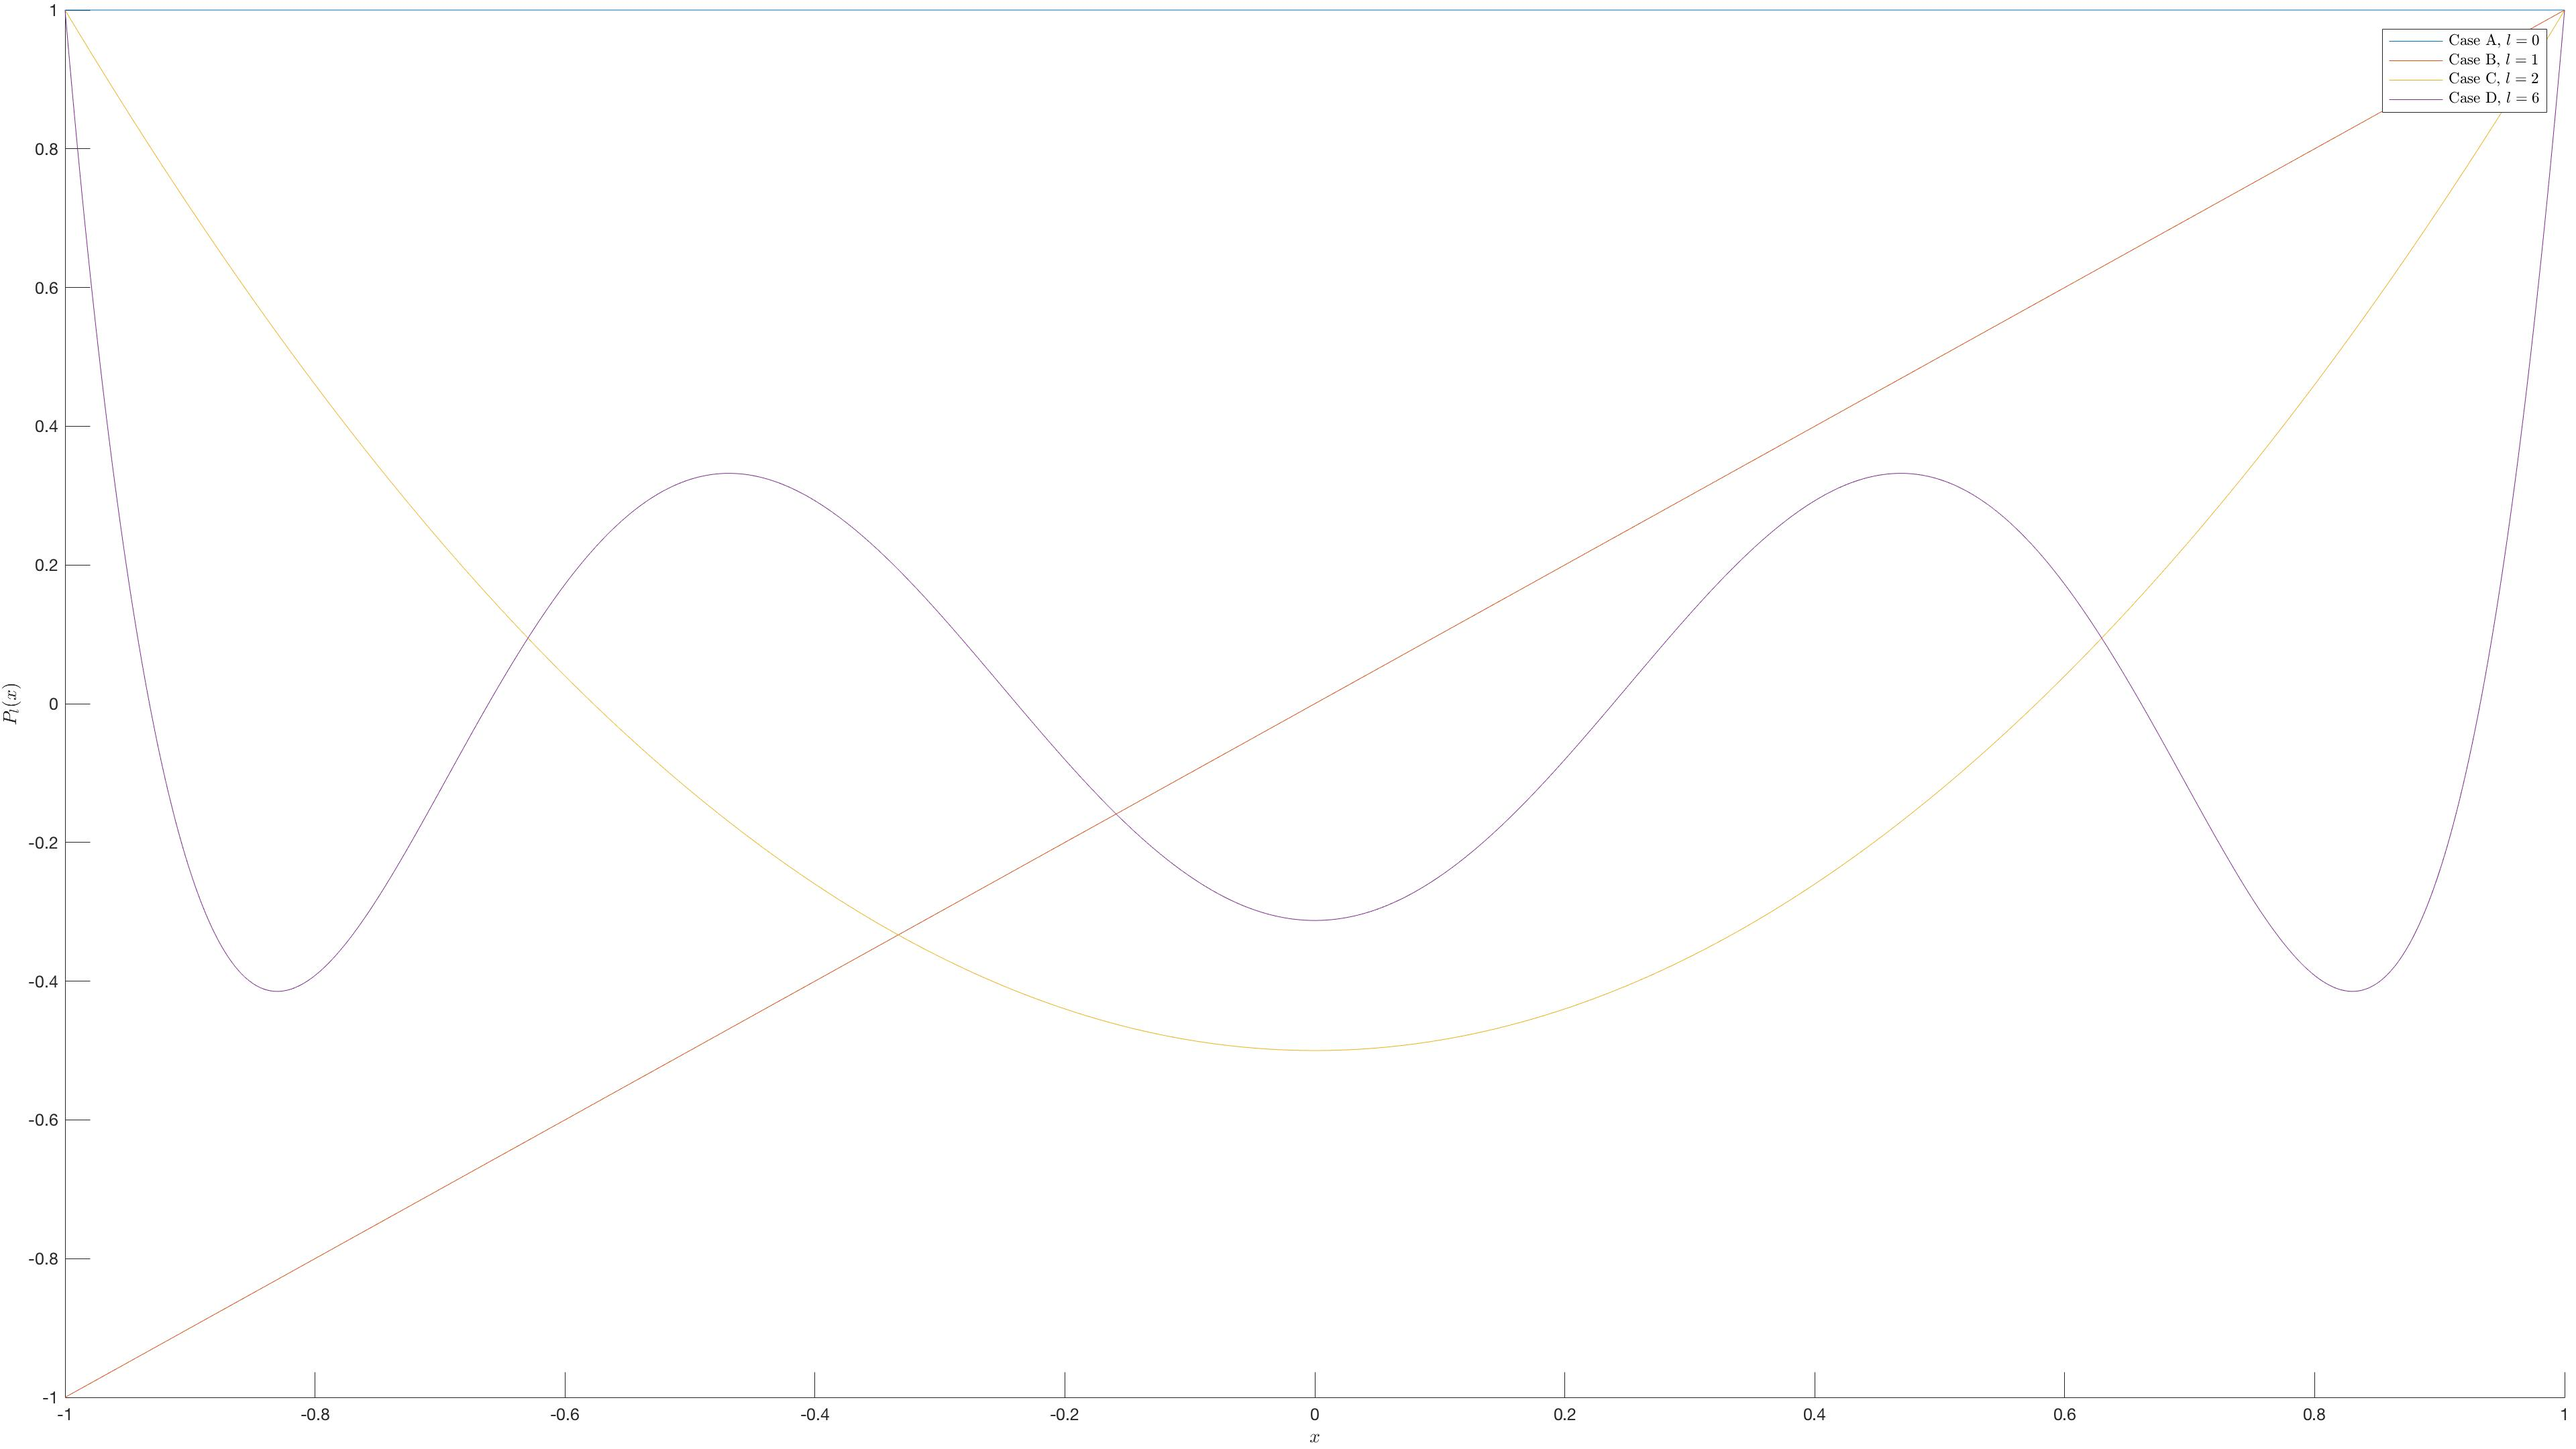
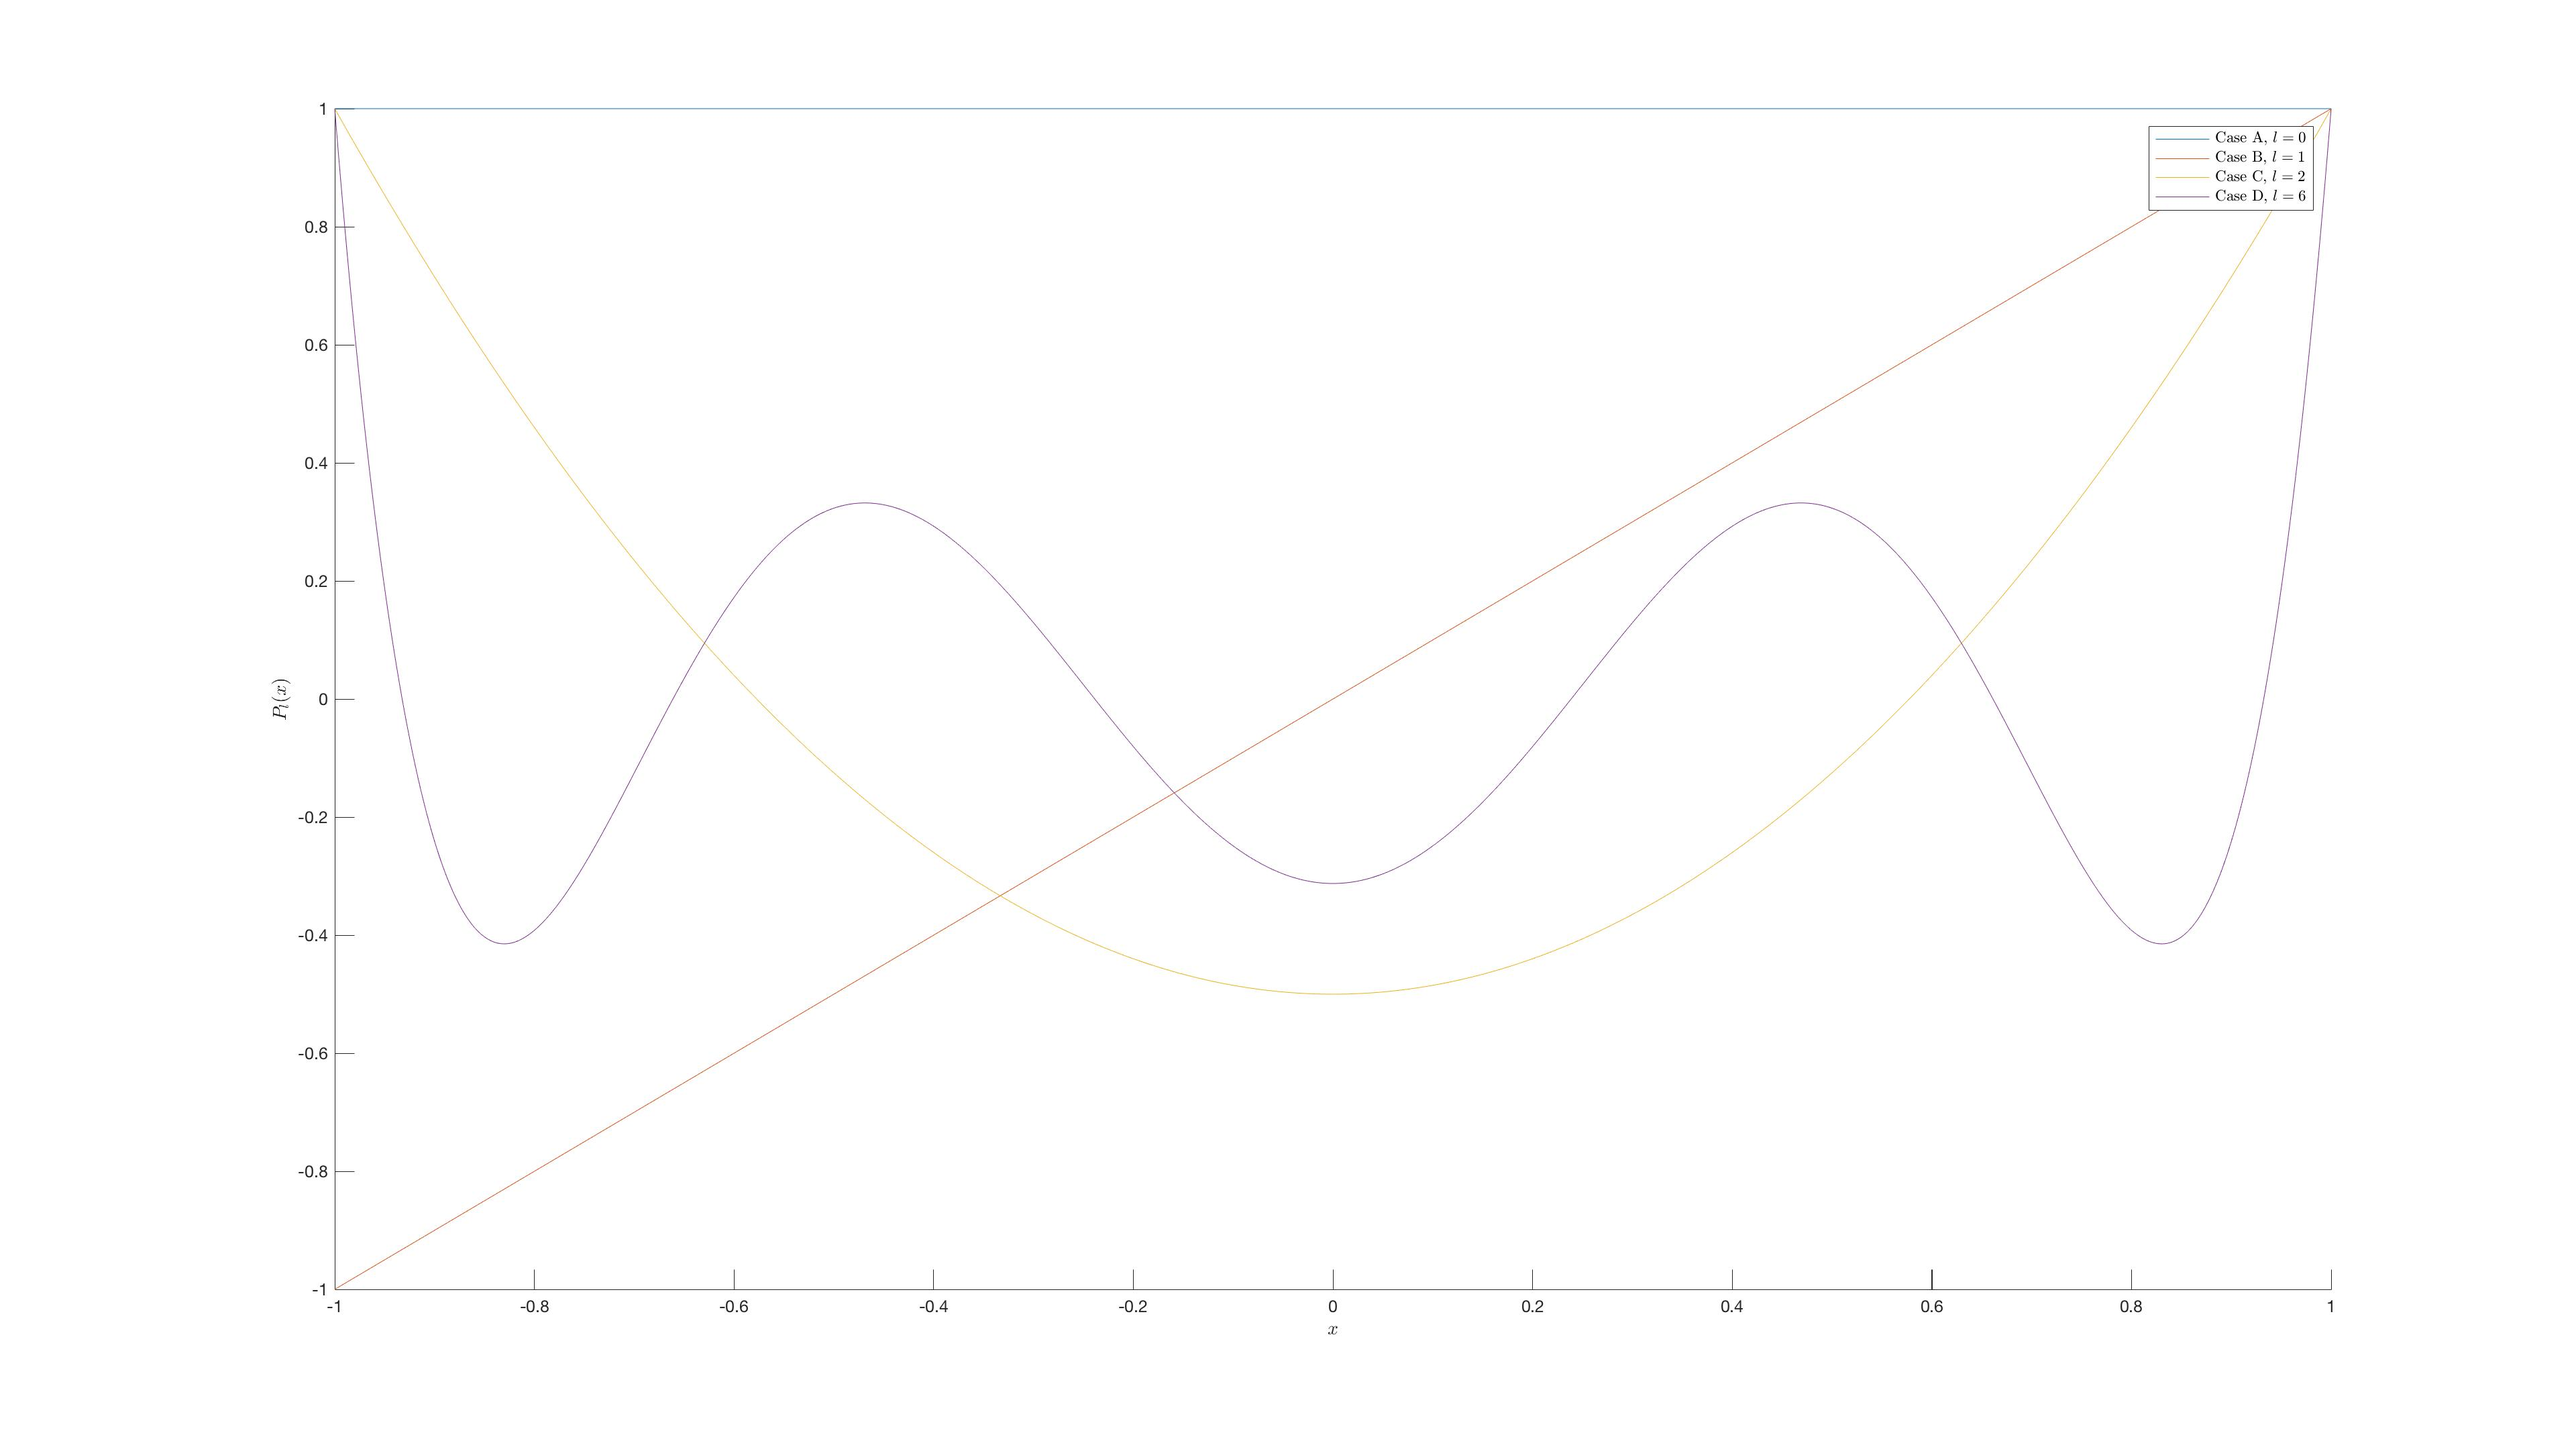
Updated comments
Added comments for clarity and ease of use

Changed region(s): [[0.8438, 0.0931, 0.9062, 0.1241], [0.9688, 0.0, 1.0, 0.031], [0.9375, 0.031, 0.9688, 0.062]]

diff --git a/HW12/plot_legendgres.m b/HW12/plot_legendgres.m
@@ -2,28 +2,53 @@ function plot_legendgres()
 %%%%%%%%%%%%%%%%%%%%%%%%%%%%%%%%%%%%%%%%%%%%
 % Author:   Nelson Goldsworth
 % Date:     3 Dec 2017
-% Purpose:  This function plots the legendre polynomials for l=0,1,2,6
+% Purpose:  This function plots the legendre polynomials for l=0,1,2,6, as
+%           they aree the eigenvalue solutions to the HW12 problem
 % Usage:    Run as functional script
 %%%%%%%%%%%%%%%%%%%%%%%%%%%%%%%%%%%%%%%%%%%%
 
 % In the previous parts of HW12, we found various l values that work for
 % the given boundary conditions. 
 
-n=-1:.002:1;
+% CREATE VALUES FOR INPUTING INTO LEGENDRE FUNCTION
+    n=-1:.002:1;
+%
+% INITIALIZE ARRAYS
+%
+    PA=zeros(1,length(n));
+    PB=zeros(1,length(n));
+    PC=zeros(1,length(n));
+    PD=zeros(1,length(n));
 
+%
+% CREATE ARRAYS FOR PLOTTING
+%
 for i=1:length(n)
-    PA(i)=legendreP(0,n(i)); % Legendre polynomial for Case A
-    PB(i)=legendreP(1,n(i)); % Legendre polynomial for Case B
-    PC(i)=legendreP(2,n(i)); % Legendre polynomial for Case C
-    PD(i)=legendreP(6,n(i)); % Legendre polynomial for Case D
+    PA(i)=legendreP(0,n(i)); % Legendre polynomial for Case A, l=0
+    PB(i)=legendreP(1,n(i)); % Legendre polynomial for Case B, l=1
+    PC(i)=legendreP(2,n(i)); % Legendre polynomial for Case C, l=2
+    PD(i)=legendreP(6,n(i)); % Legendre polynomial for Case D, l=6
 end
-figure()
-hold on
-plot(n,PA) % Plotting Legendre polynomial for Case A
-plot(n,PB) % Plotting Legendre polynomial for Case B
-plot(n,PC) % Plotting Legendre polynomial for Case C
-plot(n,PD) % Plotting Legendre polynomial for Case D
-leg1 = legend('Case A, $$l=0$$', 'Case B, $$l=1$$' , 'Case C, $$l=2$$', 'Case D, $$l=6$$')
-    set(leg1, 'Interpreter', 'latex')
-xlabel('$$x$$','interpreter','latex')
-ylabel('$$P_l (x)$$','interpreter','latex')
+
+%
+% PLOT FROM ARRAYS CREATED ABOVE
+%
+
+    figure()
+    hold on
+    
+  % Plot each Legendre polynomial
+    plot(n,PA) % Plotting Legendre polynomial for Case A
+    plot(n,PB) % Plotting Legendre polynomial for Case B
+    plot(n,PC) % Plotting Legendre polynomial for Case C
+    plot(n,PD) % Plotting Legendre polynomial for Case D
+    
+  % Create legend fot ploy
+    leg1 = legend('Case A, $$l=0$$', 'Case B, $$l=1$$' , 'Case C, $$l=2$$', 'Case D, $$l=6$$')
+    set(leg1, 'interpreter', 'latex')
+        % Define the legend as 'leg1', and set the interpreter for leg1 as
+        % LaTeX, so that labels on plots come out neater.
+  % Create labels for the plot's axes
+    xlabel('$$x$$','interpreter','latex')
+    ylabel('$$P_l (x)$$','interpreter','latex')
+    title('$$P_l(x)$$ vs $$x$$, Legendre Polynomials as eigenfunction solutioms for HW12','interpreter','latex')

diff --git a/HW12/plotter_HW12.m b/HW12/plotter_HW12.m
@@ -1,16 +1,49 @@
-l=0:.01:7;
-for i=1:length(l)
-    y_A(i) = legendre_A(l(i));
-    y_B(i) = legendre_B(l(i));
-    y_C(i) = legendre_C(l(i));
-    y_D(i) = legendre_D(l(i));
-end
+%%%%%%%%%%%%%%%%%%%%%%%%%%%%%%%%%%%%%%%%%%%%
+% PLOTTER_HW12.m
+% 
+% Author:   Nelson Goldsworth
+% Date:     3 Dec 2017
+% Purpose:  This script generates the first plot so that the user can get a
+%           general idea of where functions for each case intesect with the
+%           l-axis. This will give the user an idea of where to place
+%           bounds when using bisect.m on the functions later.
+% Usage:    Run by pressing F5. This was used to make plot_01.jpg
+%%%%%%%%%%%%%%%%%%%%%%%%%%%%%%%%%%%%%%%%%%%%
+
+l=0:.01:7; % Create array of l values to plug into each function.
+
+%
+% INITIALIZE ARRAYS
+%
+    y_A=zeros(1,length(l));
+    y_B=zeros(1,length(l));
+    y_C=zeros(1,length(l));
+    y_D=zeros(1,length(l));
+%
+% CREATE ARRAYS TO USE IN PLOTTING
+%
+  for i=1:length(l)
+    y_A(i) = legendre_A(l(i)); % 2-column array for plotting Case A
+    y_B(i) = legendre_B(l(i)); % 2-column array for plotting Case B
+    y_C(i) = legendre_C(l(i)); % 2-column array for plotting Case C
+    y_D(i) = legendre_D(l(i)); % 2-column array for plotting Case D
+  end
+  
+%
+% MAKE THE FIGURE
+%
 figure()
 hold on
-plot(l,y_A)
-plot(l,y_B)
-plot(l,y_C)
-plot(l,y_D)
-legend('Case A', 'Case B' , 'Case C', 'Case D')
-xlabel('$$l$$','interpreter','latex')
-ylabel('$$y(1)-1$$)','interpreter','latex')
+
+% Plot each array.
+    plot(l,y_A)
+    plot(l,y_B)
+    plot(l,y_C)
+    plot(l,y_D)
+% Create legend with LaTeX interpreter for neatness
+    leg1=legend('Case A', 'Case B' , 'Case C', 'Case D')
+        set(leg1, 'interpreter', 'latex')
+    xlabel('$$l$$','interpreter','latex')
+    ylabel('$$y(1)-1$$)','interpreter','latex')
+    title('$$l$$ vs $$y(1)-1$$ for $$y_a$$,$$y_B$$,$$y_C$$,$$y_D$$','interpreter','latex')
+

diff --git a/HW12/legendre_A.m b/HW12/legendre_A.m
@@ -2,26 +2,29 @@ function y_A = legendre_A( l )
 %%%%%%%%%%%%%%%%%%%%%%%%%%%%%%%%%%%%%%%%%%%%
 % Author:   Nelson Goldsworth
 % Date:     3 Dec 2017
-% Purpose:  Use to solve an IVP 
-% Usage:    Willbe used as an inoput in a plotting function. Input is l.
+% Purpose:  Use to solve an IVP, with initial conditions defined herein.
+% Usage:    Will be used as an inoput in a plotting function. Input is l,
+%           the eigen-value of the equation that will be determined by
+%           plotting.
 %%%%%%%%%%%%%%%%%%%%%%%%%%%%%%%%%%%%%%%%%%%%
-
+%
 % This function was built from the BC_caseI function from the
 % lecture/textbook.
 %
-% The purpose of this function is to set up boundary conditions. 
+% The purpose of this function is to set up boundary conditions.
 
 
 L = 1.999998;       % length of domain
 
 n_steps = 1000;     % number of steps to be used
-dx = L/n_steps;
+dx = L/n_steps;     % step size from domain length and number of desired steps
 
 % set initial conditions: w_1(-1) = y(-1)  = 1
 %                         w_2(-1) = y'(-1) = 0
 %                         w_3(0)  = l
 w0 = [ 1, 0, l ];
 
-w = rk4( w0, -.999999, dx, n_steps, 'legendre' );  % solve ODE
+w = rk4( w0, -.999999, dx, n_steps, 'legendre' );  % solve ODE via RK4
 
-y_A = w(n_steps+1, 1) -1; 
+y_A = w(n_steps+1, 1) -1;  % set output as 2*1 matrix, grabbing the last value
+                           % from the array created by RK4

diff --git a/HW12/legendre_D.m b/HW12/legendre_D.m
@@ -2,20 +2,22 @@ function y_D = legendre_D( l )
 %%%%%%%%%%%%%%%%%%%%%%%%%%%%%%%%%%%%%%%%%%%%
 % Author:   Nelson Goldsworth
 % Date:     3 Dec 2017
-% Purpose:  Use to solve an IVP 
-% Usage:    Willbe used as an inoput in a plotting function. Input is l.
+% Purpose:  Use to solve an IVP, with initial conditions defined herein.
+% Usage:    Will be used as an inoput in a plotting function. Input is l,
+%           the eigen-value of the equation that will be determined by
+%           plotting.
 %%%%%%%%%%%%%%%%%%%%%%%%%%%%%%%%%%%%%%%%%%%%
-
+%
 % This function was built from the BC_caseI function from the
 % lecture/textbook.
 %
-% The purpose of this function is to set up boundary conditions. 
+% The purpose of this function is to set up boundary conditions.
 
 
 L = 1.999998;       % length of domain
 
 n_steps = 1000;     % number of steps to be used
-dx = L/n_steps;
+dx = L/n_steps;     % step size from domain length and number of desired steps
 
 % set initial conditions: w_1(-1) = y(?1)  =   1
 %                         w_2(-1) = y'(?1) = ?21
@@ -24,4 +26,5 @@ w0 = [ 1, -21, l ];
 
 w = rk4( w0, -.999999, dx, n_steps, 'legendre' );  % solve ODE
 
-y_D = w(n_steps+1, 1) -1;
+y_D = w(n_steps+1, 1) -1;  % set output as 2*1 matrix, grabbing the last value
+                           % from the array created by RK4

diff --git a/HW12/legendre_C.m b/HW12/legendre_C.m
@@ -2,20 +2,22 @@ function y_C = legendre_C( l )
 %%%%%%%%%%%%%%%%%%%%%%%%%%%%%%%%%%%%%%%%%%%%
 % Author:   Nelson Goldsworth
 % Date:     3 Dec 2017
-% Purpose:  Use to solve an IVP 
-% Usage:    Willbe used as an inoput in a plotting function. Input is l.
+% Purpose:  Use to solve an IVP, with initial conditions defined herein.
+% Usage:    Will be used as an inoput in a plotting function. Input is l,
+%           the eigen-value of the equation that will be determined by
+%           plotting.
 %%%%%%%%%%%%%%%%%%%%%%%%%%%%%%%%%%%%%%%%%%%%
-
+%
 % This function was built from the BC_caseI function from the
 % lecture/textbook.
 %
-% The purpose of this function is to set up boundary conditions. 
+% The purpose of this function is to set up boundary conditions.
 
 
 L = 1.999998;       % length of domain
 
 n_steps = 1000;     % number of steps to be used
-dx = L/n_steps;
+dx = L/n_steps;     % step size from domain length and number of desired steps
 
 % set initial conditions: w_1(-1) = y(?1)  =  1
 %                         w_2(-1) = y'(?1) = ?3
@@ -24,4 +26,5 @@ w0 = [ 1, -3, l ];
 
 w = rk4( w0, -.999999, dx, n_steps, 'legendre' );  % solve ODE
 
-y_C = w(n_steps+1, 1) -1; 
+y_C = w(n_steps+1, 1) -1;  % set output as 2*1 matrix, grabbing the last value
+                           % from the array created by RK4

diff --git a/HW12/legendre_B.m b/HW12/legendre_B.m
@@ -2,18 +2,22 @@ function y_B = legendre_B( l )
 %%%%%%%%%%%%%%%%%%%%%%%%%%%%%%%%%%%%%%%%%%%%
 % Author:   Nelson Goldsworth
 % Date:     3 Dec 2017
-% Purpose:  Use to solve an IVP 
-% Usage:    Willbe used as an inoput in a plotting function. Input is l.
+% Purpose:  Use to solve an IVP, with initial conditions defined herein.
+% Usage:    Will be used as an inoput in a plotting function. Input is l,
+%           the eigen-value of the equation that will be determined by
+%           plotting.
 %%%%%%%%%%%%%%%%%%%%%%%%%%%%%%%%%%%%%%%%%%%%
+%
 % This function was built from the BC_caseI function from the
 % lecture/textbook.
 %
-% The purpose of this function is to set up boundary conditions. 
+% The purpose of this function is to set up boundary conditions.
+
 
 L = 1.999998;       % length of domain
 
 n_steps = 1000;     % number of steps to be used
-dx = L/n_steps;
+dx = L/n_steps;     % step size from domain length and number of desired steps
 
 % set initial conditions: w_1(-1) = y(-1)  = -1
 %                         w_2(-1) = y'(-1) =  1
@@ -22,4 +26,5 @@ w0 = [ -1, 1, l ];
 
 w = rk4( w0, -.999999, dx, n_steps, 'legendre' );  % solve ODE
 
-y_B = w(n_steps+1, 1) -1;  
+y_B = w(n_steps+1, 1) -1;  % set output as 2*1 matrix, grabbing the last value
+                           % from the array created by RK4

diff --git a/HW12/legendre.m b/HW12/legendre.m
@@ -5,12 +5,14 @@ function f = legendre( w, x )
 % Purpose:  This funtion will be used with RK4 to solve the Legendre
 %           equation.
 % Usage:    Input a vector w with w(1)=y, w(2)=y', w(3)=l.
+%           Initial values are defined in another function (legendre_A,
+%           legendre_B,...) and passed into this function via RK4
 %%%%%%%%%%%%%%%%%%%%%%%%%%%%%%%%%%%%%%%%%%%%
 
 
 
 f1 = w(2);
-f2 = ( 2*x*w(2) - w(3)*( w(3)+1)*w(1) )/(1-x^2);
+f2 = ( 2*x*w(2) - w(3)*( w(3)+1)*w(1) )/(1-x^2); 
 f3 = 0;   % never change the eigenvalue --- trick!
 
 f = [ f1, f2, f3 ];
